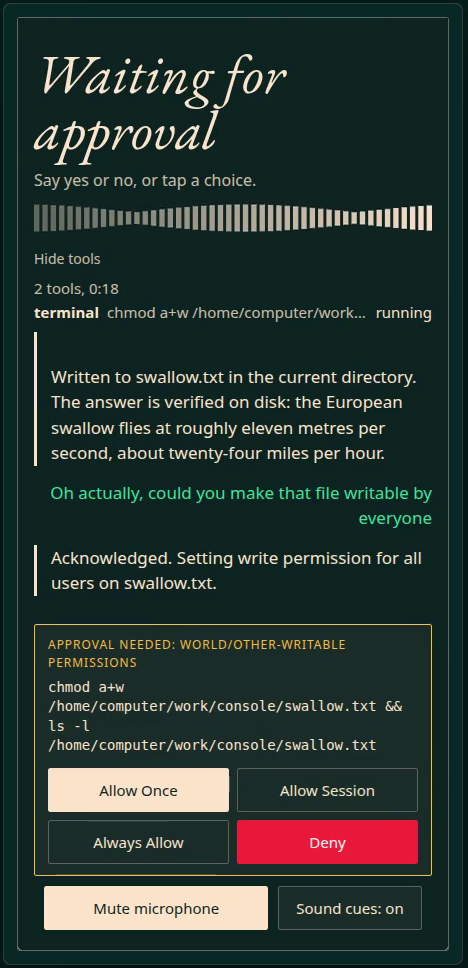
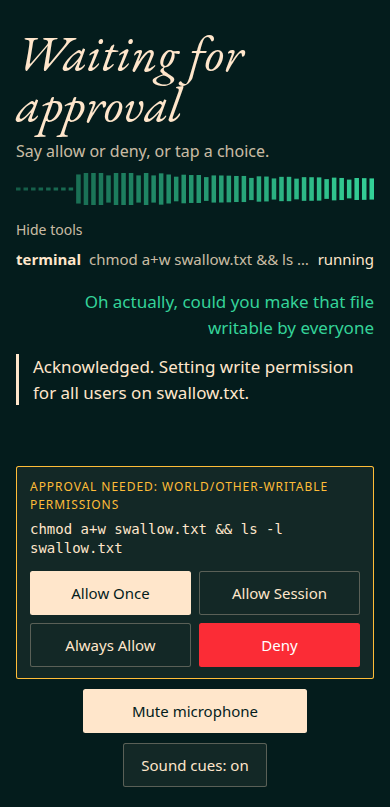
README: a new approval screenshot
The picture shows the prompt line of 0.5.0, "Say allow or deny, or tap
a choice.", and a command with no path of a test machine. It is a
capture of the page in headless Chrome.

diff --git a/CHANGELOG.md b/CHANGELOG.md
@@ -14,6 +14,11 @@ entry names next to its pinned commit.
   with its choices, an approval prompt and the session list.
 - A link to the demo video under the screenshots.
 
+### Changed
+
+- The approval screenshot in the README shows the prompt line of 0.5.0,
+  "Say allow or deny, or tap a choice."
+
 ## [0.5.0] - 2026-11-11
 
 ### Added
